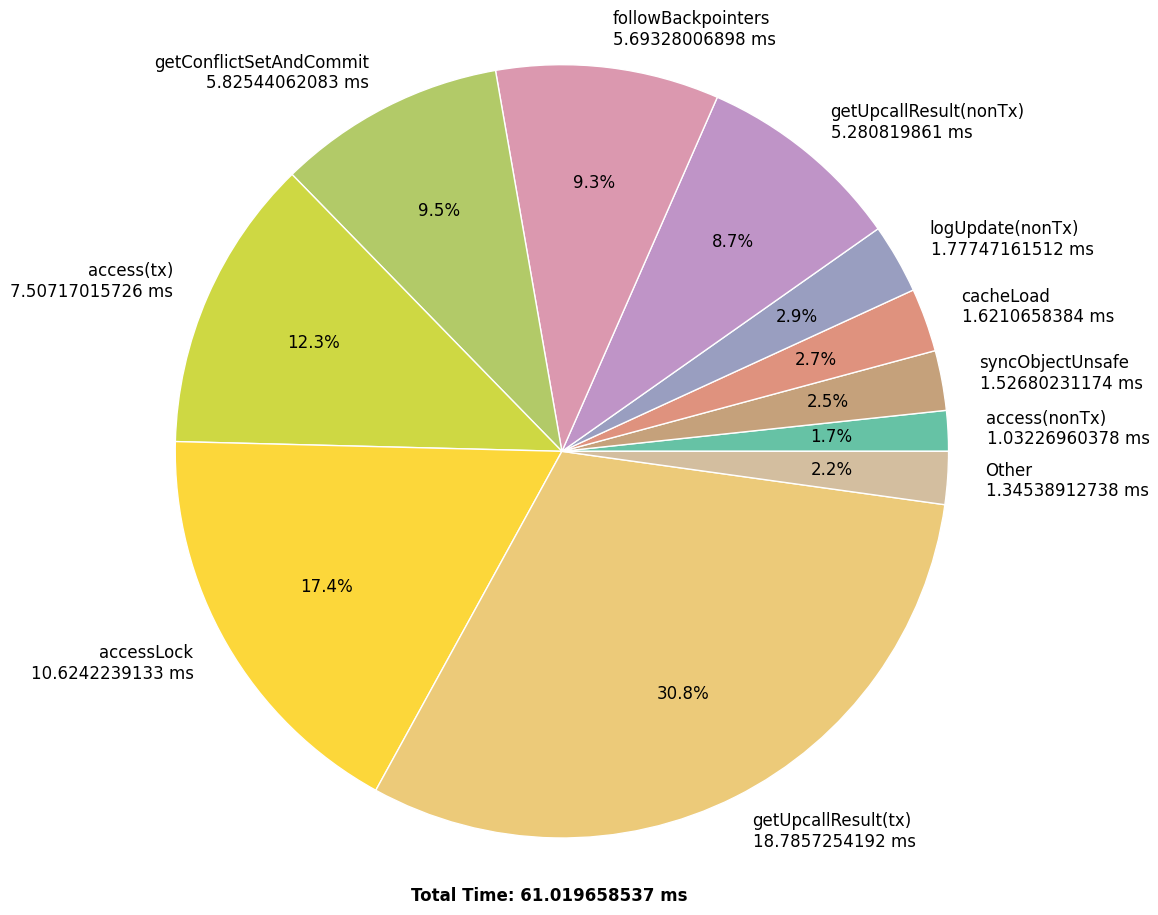
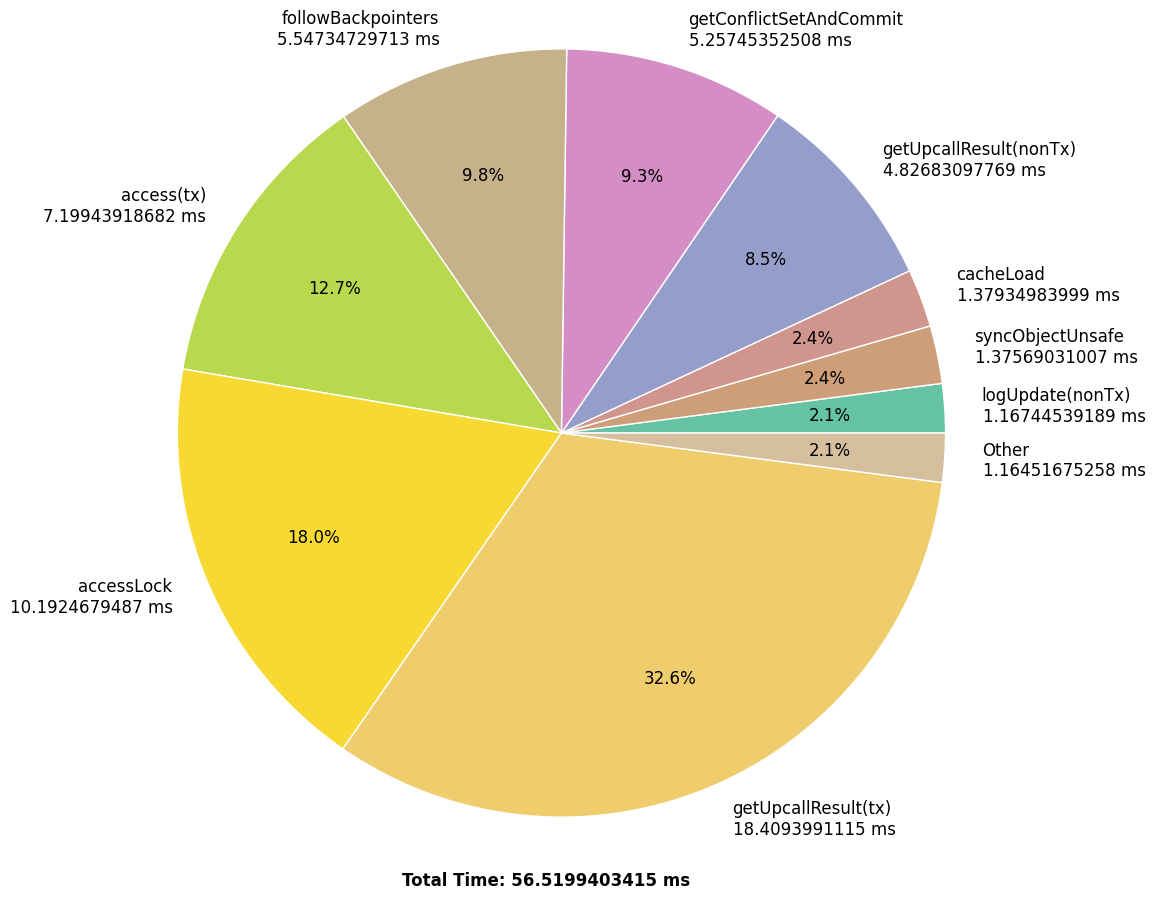
Add bar chart with error lines

diff --git a/generator/src/main/java/org/corfudb/generator/profiler/profiler.py b/generator/src/main/java/org/corfudb/generator/profiler/profiler.py
@@ -303,22 +303,26 @@ def count_all_ops_time():
     '''
     print 7
     # Count total time taken by each op
-    counts = {}  # op name --> (total time taken, number of occurrences)
+    counts = {}  # op name --> list of durations
     for point in points:
         if get_event_name(point) not in counts:
-            counts[get_event_name(point)] = (get_duration(point), 1)
+            counts[get_event_name(point)] = [nano_to_milli(get_duration(point))]
         else:
-            counts[get_event_name(point)] = (counts[get_event_name(point)][0] + get_duration(point),
-                                             counts[get_event_name(point)][1] + 1)
+            counts[get_event_name(point)] += [nano_to_milli(get_duration(point))]
+
     # Average out time for each op
     total_time = 0
+    std = {}  # op name --> std dev
+
     for op in counts:  # counts: op name --> avg time taken per call of op
-        counts[op] = nano_to_milli(counts[op][0] / (counts[op][1] * 1.0))
+        std[op] = np.std(counts[op])
+        counts[op] = sum(counts[op]) / (len(counts[op]) * 1.0)
         total_time += counts[op]
 
     # Create pie chart
     values = []
     labels = []
+    error = []
     other = 0
     for key, value in sorted(counts.iteritems(), key=lambda (k, v): (v, k)):
         if value / (1.0 * total_time) < 0.015:
@@ -326,8 +330,10 @@ def count_all_ops_time():
             continue
         labels += [key + "\n" + str(value) + " ms"]  # label = name of op + time taken by op (ms) [string]
         values += [value]  # value = time taken by op
+        error += [std[key]]
     labels += ["Other\n" + str(other) + " ms"]
     values += [other]
+    error += [0]
 
     colors = plt.cm.Set2(np.array([(i - len(labels) / 16) / (len(labels) * 2.0) for i in range(0, 2*len(labels), 2)]))
     fig = plt.figure(figsize=[10, 10])
@@ -342,31 +348,48 @@ def count_all_ops_time():
     plt.savefig(output_path + "count_all_ops_time.png", bbox_inches='tight')
     plt.clf()
 
-    # Create bar graph
+    # Create bar graph with error
     plt.rcdefaults()
     fig, ax = plt.subplots()
 
     labels = [l.split("\n")[0] for l in labels]
     y_pos = np.arange(len(labels))
 
-    r = ax.barh(y_pos, values, align='center',
-            color=colors, ecolor='black')
+    r = ax.barh(y_pos, values, xerr=error, align='center', color=colors, ecolor='black')
     ax.set_yticks(y_pos)
     ax.set_yticklabels(labels)
     ax.invert_yaxis()  # labels read top-to-bottom
     ax.set_xlabel('Time (ms)')
     ax.set_title('Average Runtime per Call')
 
-    def autolabel(rects):
-        for rect in rects:
-            width = rect.get_width()
-            plt.text(rect.get_width() + 2, rect.get_y() + 0.5 * rect.get_height(),
-                     '%f' % width,
-                     ha='center', va='center')
+    for rect in r:
+        width = rect.get_width()
+        plt.text(rect.get_width() + 2, rect.get_y() + 0.5 * rect.get_height(),
+                 '%f' % width, ha='center', va='center')
 
-    autolabel(r)
+    plt.savefig(output_path + "count_all_ops_time_bar_error.png", bbox_inches='tight')
+    plt.clf()
 
-    plt.savefig(output_path + "bar_test.png", bbox_inches='tight')
+    # Create bar graph without error
+    plt.rcdefaults()
+    fig, ax = plt.subplots()
+
+    labels = [l.split("\n")[0] for l in labels]
+    y_pos = np.arange(len(labels))
+
+    r = ax.barh(y_pos, values, align='center', color=colors, ecolor='black')
+    ax.set_yticks(y_pos)
+    ax.set_yticklabels(labels)
+    ax.invert_yaxis()  # labels read top-to-bottom
+    ax.set_xlabel('Time (ms)')
+    ax.set_title('Average Runtime per Call')
+
+    for rect in r:
+        width = rect.get_width()
+        plt.text(rect.get_width() + 2, rect.get_y() + 0.5 * rect.get_height(),
+                 '%f' % width, ha='center', va='center')
+
+    plt.savefig(output_path + "count_all_ops_time_bar.png", bbox_inches='tight')
     plt.clf()
 
 
